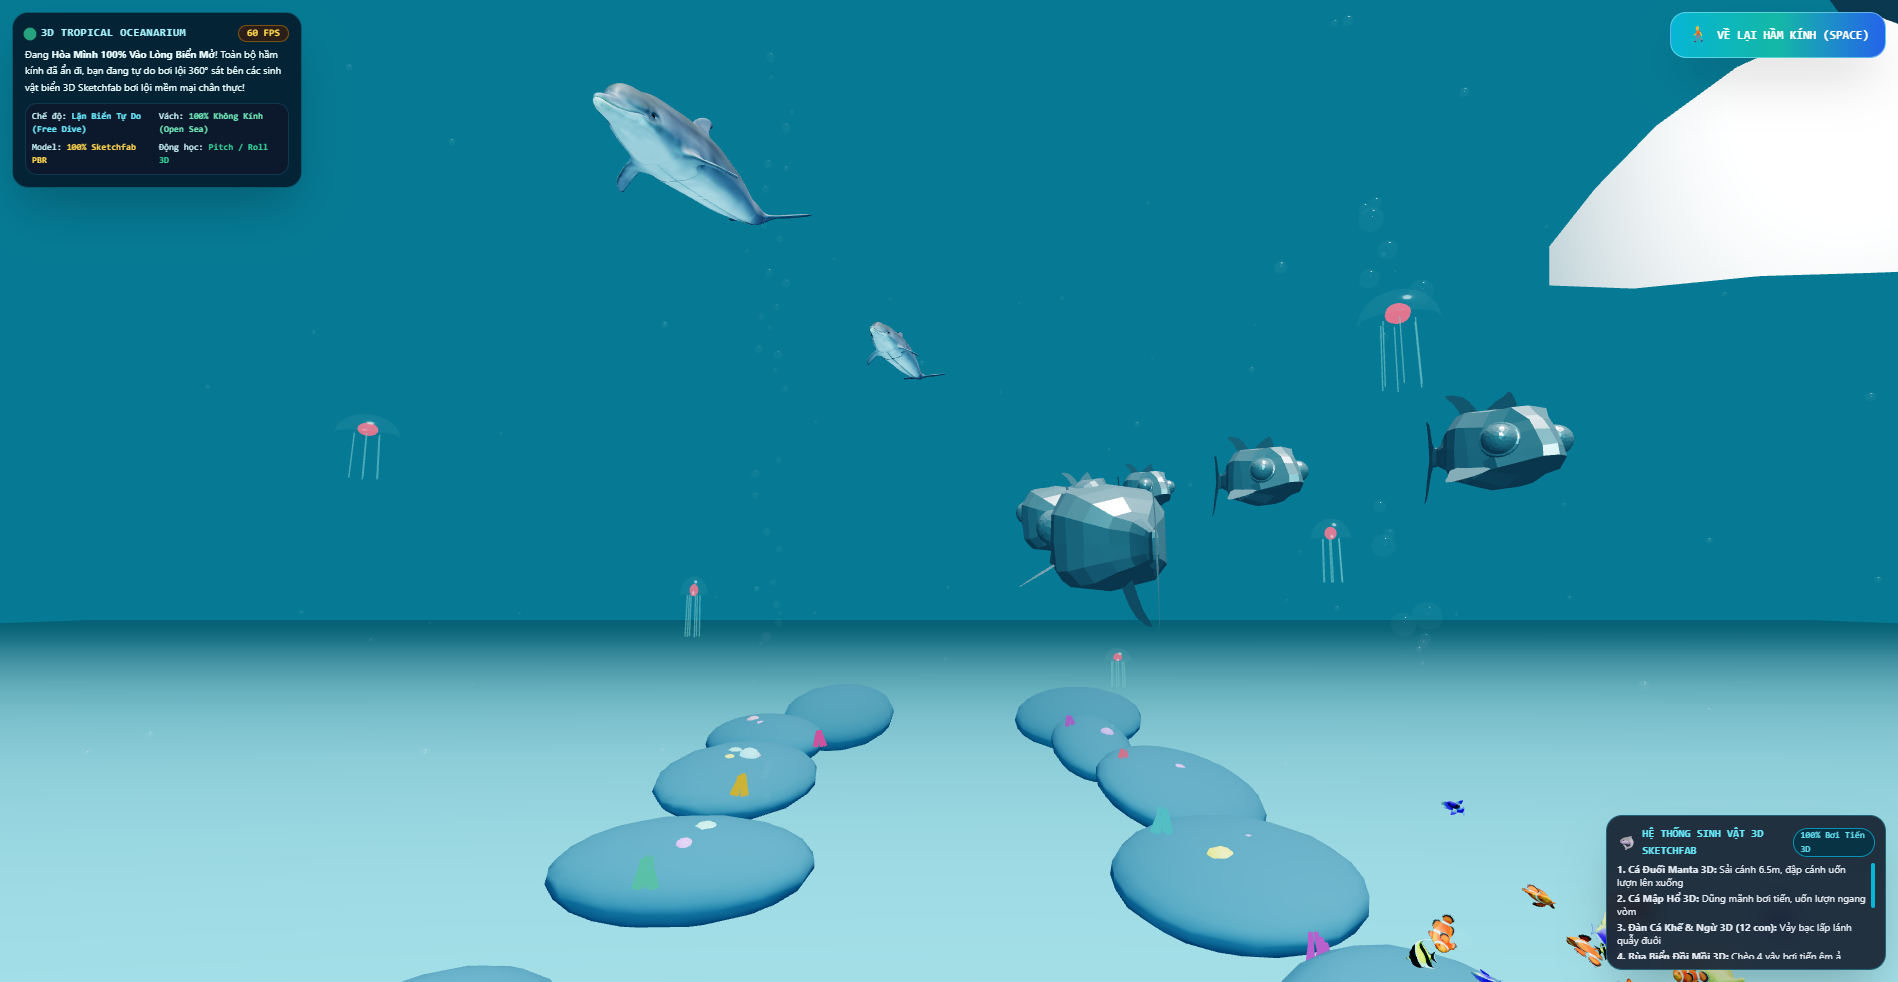
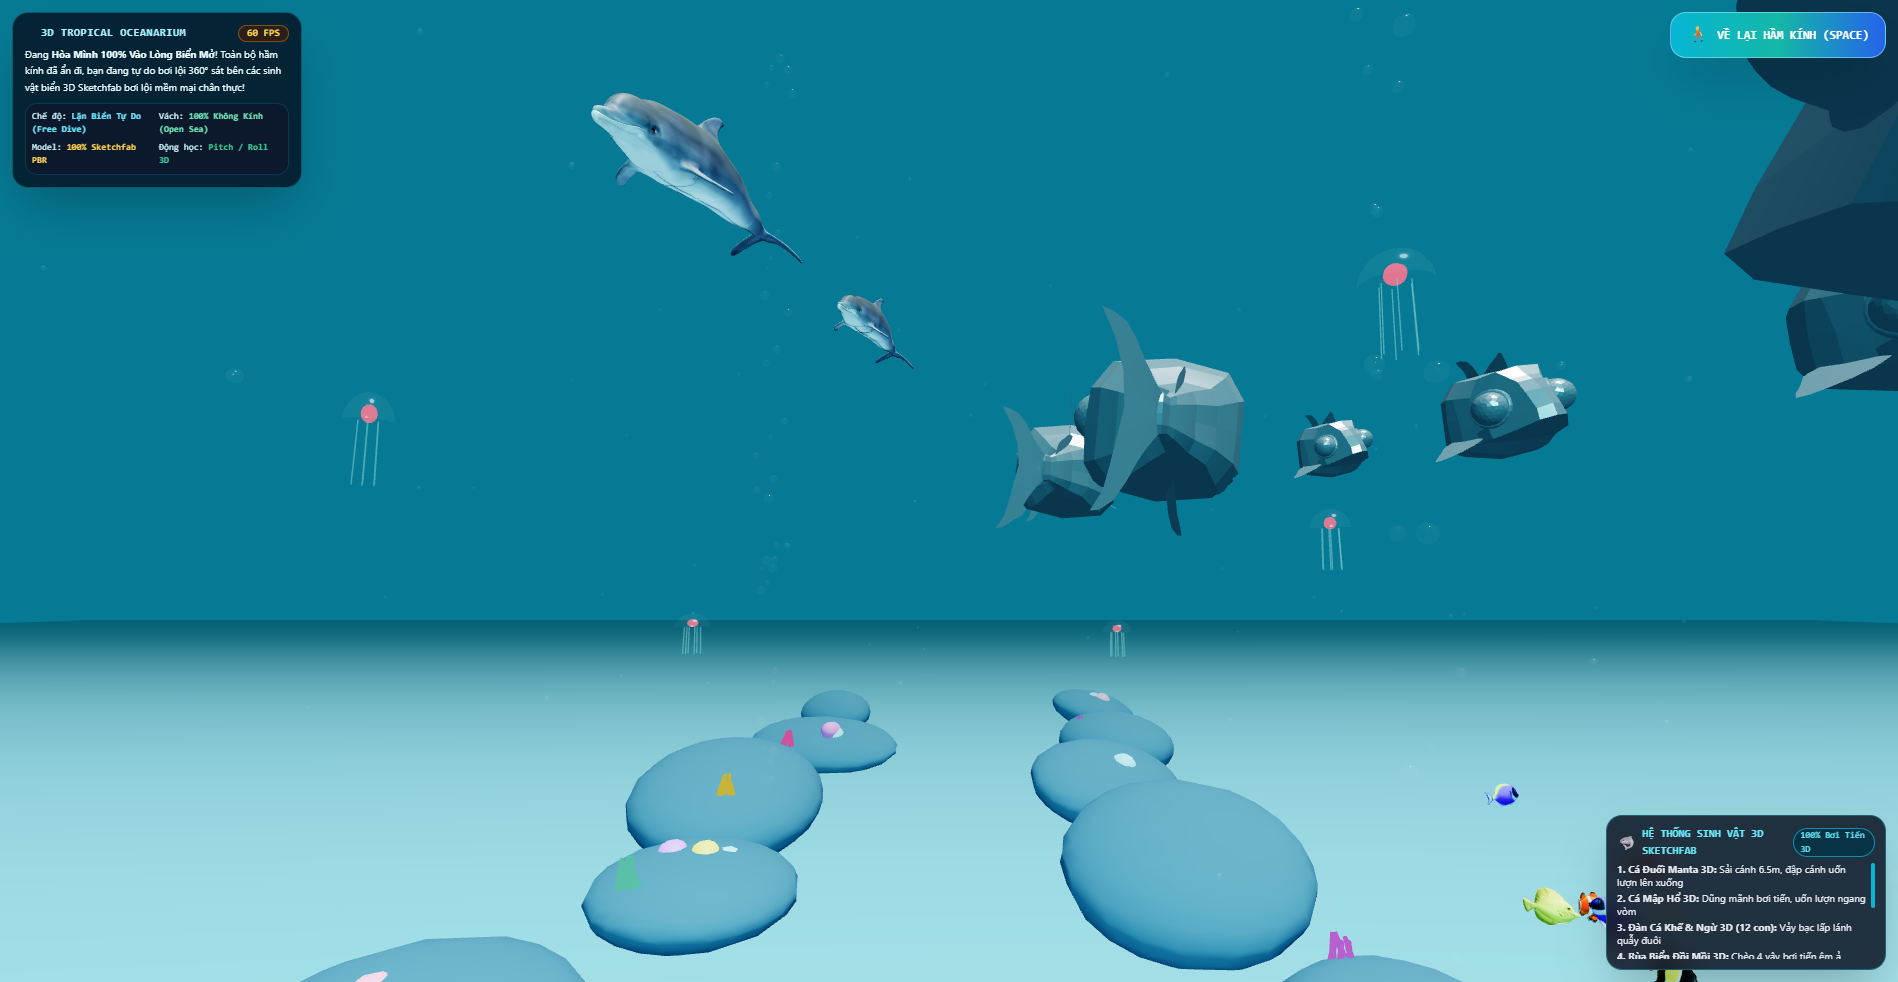
perf: implement ultra-smooth arc-length trajectory, analytical tangent, quaternion slerp damping, and zero-GC render loop

diff --git a/index.html b/index.html
@@ -390,39 +390,39 @@
     // Quỹ đạo 3D khép kín mượt mà có cao độ uốn lượn lên/xuống (Pitch) chân thực
     // 1. Manta Ray: Sải cánh 6.5m bay lượn uốn lượn từ cao xuống thấp trên vòm kính
     const mantaCurve = new THREE.CatmullRomCurve3([
-      new THREE.Vector3(-1.0, 5.8, -12),
-      new THREE.Vector3(1.5, 6.4, -20),
-      new THREE.Vector3(3.2, 5.2, -12),
-      new THREE.Vector3(0.5, 5.6, -2),
-      new THREE.Vector3(-2.6, 6.2, -6)
-    ], true);
+      new THREE.Vector3(-1.2, 5.9, -12),
+      new THREE.Vector3(1.6, 6.5, -20),
+      new THREE.Vector3(3.2, 5.5, -12),
+      new THREE.Vector3(0.8, 5.8, -2),
+      new THREE.Vector3(-2.6, 6.3, -6)
+    ], true, 'catmullrom', 0.5);
 
-    // 2. Tiger Shark: Dũng mãnh bơi tiến, lượn lặn từ cao xuống ngang tầm mắt
+    // 2. Tiger Shark: Dũng mãnh bơi tiến, uốn lượn quanh nóc và thành vòm kính
     const sharkCurve = new THREE.CatmullRomCurve3([
-      new THREE.Vector3(0.0, 4.8, -10),
-      new THREE.Vector3(2.8, 5.5, -18),
-      new THREE.Vector3(4.5, 3.2, -26),
-      new THREE.Vector3(1.2, 5.4, -20),
-      new THREE.Vector3(-3.2, 4.6, -14),
-      new THREE.Vector3(-1.8, 5.2, -5)
-    ], true);
+      new THREE.Vector3(0.0, 5.4, -10),
+      new THREE.Vector3(3.2, 5.6, -18),
+      new THREE.Vector3(5.4, 5.0, -26),
+      new THREE.Vector3(1.8, 5.5, -20),
+      new THREE.Vector3(-3.4, 5.2, -14),
+      new THREE.Vector3(-1.8, 5.4, -5)
+    ], true, 'catmullrom', 0.5);
 
     // 3. Sea Turtle: Bơi chèo 4 vây êm ả sát cửa sổ kính bên phải
     const turtleCurve = new THREE.CatmullRomCurve3([
-      new THREE.Vector3(4.8, 2.2, -6),
-      new THREE.Vector3(5.2, 3.0, -15),
-      new THREE.Vector3(4.9, 1.8, -25),
-      new THREE.Vector3(5.5, 2.7, -15)
-    ], true);
+      new THREE.Vector3(5.2, 2.4, -6),
+      new THREE.Vector3(5.6, 3.2, -15),
+      new THREE.Vector3(5.2, 2.0, -25),
+      new THREE.Vector3(5.8, 2.8, -15)
+    ], true, 'catmullrom', 0.5);
 
     // 4. Trevally / Tuna: Đàn 12 con vảy bạc bơi xoay vòng lấp lánh trên vòm kính
     const trevallyCurve = new THREE.CatmullRomCurve3([
-      new THREE.Vector3(2.0, 4.8, -8),
-      new THREE.Vector3(2.8, 5.6, -15),
-      new THREE.Vector3(1.6, 5.9, -20),
-      new THREE.Vector3(0.6, 5.1, -14),
-      new THREE.Vector3(1.2, 4.6, -8)
-    ], true);
+      new THREE.Vector3(2.0, 5.2, -8),
+      new THREE.Vector3(3.0, 5.8, -15),
+      new THREE.Vector3(1.8, 6.0, -20),
+      new THREE.Vector3(0.6, 5.4, -14),
+      new THREE.Vector3(1.2, 5.0, -8)
+    ], true, 'catmullrom', 0.5);
 
     // 5. Dolphins: Đôi cá heo lượn nhào trên tầng cao vòm hầm
     const dolphinCurve = new THREE.CatmullRomCurve3([
@@ -430,7 +430,7 @@
       new THREE.Vector3(-0.8, 7.8, -19),
       new THREE.Vector3(1.5, 6.5, -26),
       new THREE.Vector3(-1.5, 7.4, -14)
-    ], true);
+    ], true, 'catmullrom', 0.5);
 
     // 6. Whale: Cá voi khổng lồ 14m bơi hùng tráng tầng nước sâu phía trên
     const whaleCurve = new THREE.CatmullRomCurve3([
@@ -439,7 +439,7 @@
       new THREE.Vector3(8, 14.0, -4),
       new THREE.Vector3(14, 13.0, 8),
       new THREE.Vector3(0, 14.5, 0)
-    ], true);
+    ], true, 'catmullrom', 0.5);
 
     const gltfLoader = new THREE.GLTFLoader();
 
@@ -497,18 +497,23 @@
       }
 
       scene.add(container);
+
+      // Khởi tạo vị trí và góc nhìn ban đầu đúng chuẩn tiếp tuyến giải tích (không giật khung đầu)
+      const initPos = curve.getPointAt(initialT);
+      const initTan = curve.getTangentAt(initialT).normalize();
+      container.position.copy(initPos);
+      container.lookAt(initPos.clone().add(initTan));
+
       animatedEntities.push({
         container: container,
         rotator: rotator,
         baseRotY: rotCorrection[1],
         curve: curve,
         speed: speed,
-        t: initialT,
+        u: initialT,
+        currentBank: 0,
         targetSize: targetSize,
-        type: type,
-        wagSpeed: 8 + Math.random() * 4,
-        wagAmp: 0.08,
-        phase: Math.random() * Math.PI * 2
+        type: type
       });
     }
 
@@ -560,20 +565,20 @@
 
     // 7. 4 LOÀI CÁ RẠN SAN HÔ 3D SKETCHFAB (tropical_fish.glb - 16 CON BƠI THEO BẦY) -> Đầu hướng -Z khi rotY = Math.PI / 2 (90°)
     gltfLoader.load('assets/models/tropical_fish.glb', (gltf) => {
-      // Quỹ đạo bơi cho đàn cá rạn san hô 2 bên hầm kính
+      // Quỹ đạo bơi cho đàn cá rạn san hô 2 bên hầm kính (mượt mà, cách kính an toàn > 5.8m)
       const reefPaths = [
         new THREE.CatmullRomCurve3([
-          new THREE.Vector3(5.8, 1.2, -18),
-          new THREE.Vector3(6.4, 2.2, -6),
-          new THREE.Vector3(5.5, 0.9, 8),
-          new THREE.Vector3(6.2, 1.8, -8)
-        ], true),
+          new THREE.Vector3(6.2, 1.4, -18),
+          new THREE.Vector3(6.8, 2.4, -6),
+          new THREE.Vector3(5.8, 1.2, 8),
+          new THREE.Vector3(6.5, 2.0, -8)
+        ], true, 'catmullrom', 0.5),
         new THREE.CatmullRomCurve3([
-          new THREE.Vector3(-5.8, 1.4, -14),
-          new THREE.Vector3(-6.5, 2.2, -2),
-          new THREE.Vector3(-5.6, 1.0, 10),
-          new THREE.Vector3(-6.2, 1.8, -6)
-        ], true)
+          new THREE.Vector3(-6.2, 1.6, -14),
+          new THREE.Vector3(-6.8, 2.4, -2),
+          new THREE.Vector3(-5.8, 1.2, 10),
+          new THREE.Vector3(-6.5, 2.0, -6)
+        ], true, 'catmullrom', 0.5)
       ];
 
       for (let i = 0; i < 16; i++) {
@@ -735,6 +740,15 @@
     let lastTime = performance.now();
     let frameCount = 0, fpsTimer = 0;
 
+    // Biến phụ trợ phân bổ trước để tránh Garbage Collection gây giật khung hình (Zero GC Stutter)
+    const _targetPos = new THREE.Vector3();
+    const _tangent = new THREE.Vector3();
+    const _lookTarget = new THREE.Vector3();
+    const _nextTangent = new THREE.Vector3();
+    const _tempObj = new THREE.Object3D();
+    const _camForward = new THREE.Vector3();
+    const _camRight = new THREE.Vector3();
+
     function animate(currentTime) {
       requestAnimationFrame(animate);
 
@@ -751,23 +765,23 @@
       // Cập nhật uniform caustics
       causticMat.uniforms.uTime.value = currentTime * 0.001;
 
-      // CẬP NHẬT CỬ ĐỘNG XƯƠNG CỦA CÁC MÔ HÌNH 3D SKETCHFAB
+      // CẬP NHẬT CỬ ĐỘNG XƯƠNG CỦA CÁC MÔ HÌNH 3D SKETCHFAB (MỀM MẠI TỰ NHIÊN)
       animationMixers.forEach(mixer => mixer.update(dt));
 
-      // Điều khiển Camera bằng WASD
+      // Điều khiển Camera bằng WASD (Không cấp phát bộ nhớ mới)
       const moveSpeed = 16 * dt;
-      const forward = new THREE.Vector3(0, 0, -1).applyQuaternion(camera.quaternion);
-      const right = new THREE.Vector3(1, 0, 0).applyQuaternion(camera.quaternion);
+      _camForward.set(0, 0, -1).applyQuaternion(camera.quaternion);
+      _camRight.set(1, 0, 0).applyQuaternion(camera.quaternion);
 
       if (!isDiving) {
         if (keys['w'] || keys['arrowup']) camera.position.z -= moveSpeed;
         if (keys['s'] || keys['arrowdown']) camera.position.z += moveSpeed;
         camera.position.z = Math.max(-55, Math.min(55, camera.position.z));
       } else {
-        if (keys['w'] || keys['arrowup']) camera.position.addScaledVector(forward, moveSpeed);
-        if (keys['s'] || keys['arrowdown']) camera.position.addScaledVector(forward, -moveSpeed);
-        if (keys['a'] || keys['arrowleft']) camera.position.addScaledVector(right, -moveSpeed);
-        if (keys['d'] || keys['arrowright']) camera.position.addScaledVector(right, moveSpeed);
+        if (keys['w'] || keys['arrowup']) camera.position.addScaledVector(_camForward, moveSpeed);
+        if (keys['s'] || keys['arrowdown']) camera.position.addScaledVector(_camForward, -moveSpeed);
+        if (keys['a'] || keys['arrowleft']) camera.position.addScaledVector(_camRight, -moveSpeed);
+        if (keys['d'] || keys['arrowright']) camera.position.addScaledVector(_camRight, moveSpeed);
       }
 
       // 1. CẬP NHẬT CỘT SỦI BỌT KHÍ OXY
@@ -781,46 +795,35 @@
         b.mesh.position.z = b.baseZ + Math.cos(time) * b.wobbleAmp;
       });
 
-      // 2. CẬP NHẬT CHUYỂN ĐỘNG 3D TIẾN TỚI, CHÚC/NGỬA & NGHIÊNG CÁNH THẬT
+      // 2. CẬP NHẬT CHUYỂN ĐỘNG 3D SIÊU MƯỢT (ARC-LENGTH SAMPLING + QUATERNION SLERP DAMPING)
       animatedEntities.forEach(ent => {
-        ent.t += ent.speed * dt * 0.18;
-        if (ent.t >= 1) ent.t -= 1;
+        // A. Tiến bước u theo độ dài cung đều đặn (arc-length constant speed)
+        ent.u = (ent.u + ent.speed * dt * 0.14) % 1.0;
 
-        const pos = ent.curve.getPoint(ent.t);
-        const nextPos = ent.curve.getPoint((ent.t + 0.004) % 1);
+        // B. Lấy vị trí 3D và tiếp tuyến chuẩn xác theo giải tích (không sai số chia nhỏ)
+        ent.curve.getPointAt(ent.u, _targetPos);
+        ent.curve.getTangentAt(ent.u, _tangent).normalize();
 
-        // Chống xuyên hầm kính tuyệt đối: Bán kính ngoài an toàn là 4.95m
-        const distFromCenter = Math.sqrt(pos.x * pos.x + pos.y * pos.y);
-        const minSafeRadius = 4.95;
-        if (pos.y > -0.2 && pos.z > -65 && pos.z < 65 && distFromCenter < minSafeRadius) {
-          const push = minSafeRadius / Math.max(0.01, distFromCenter);
-          pos.x *= push;
-          pos.y = Math.max(pos.y * push, 4.95);
-        }
+        // C. Cập nhật vị trí mượt mà
+        ent.container.position.copy(_targetPos);
 
-        // Cập nhật vị trí
-        ent.container.position.copy(pos);
+        // D. Hướng đầu theo tiếp tuyến 3D
+        _lookTarget.copy(_targetPos).add(_tangent);
+        _tempObj.position.copy(_targetPos);
+        _tempObj.lookAt(_lookTarget);
 
-        // HƯỚNG ĐẦU BƠI TIẾN 100% THEO VÉC-TƠ TIẾP TUYẾN 3D (THREE.JS NATIVE LOOKAT)
-        // Khi bơi chếch lên cao -> ngửa đầu lên (Pitch up)
-        // Khi bơi lặn xuống sâu -> chúc đầu xuống (Pitch down)
-        // Khi cua rẽ -> quay đầu mượt mà không bao giờ bị bơi lùi
-        ent.container.lookAt(nextPos);
+        // E. Tính góc nghiêng thân thủy động học mượt mà (Smooth Banking Roll)
+        const nextU = (ent.u + 0.008) % 1.0;
+        ent.curve.getTangentAt(nextU, _nextTangent);
+        const turnRate = (_tangent.x * _nextTangent.z - _tangent.z * _nextTangent.x) * 80.0;
+        const targetBank = Math.max(-0.22, Math.min(0.22, turnRate));
+        ent.currentBank += (targetBank - ent.currentBank) * Math.min(1.0, dt * 5.0);
+        _tempObj.rotateZ(ent.currentBank);
 
-        // TÍNH TOÁN NGHIÊNG THÂN THỦY ĐỘNG HỌC (BANKING ROLL KHI VÀO CUA)
-        const nextNextPos = ent.curve.getPoint((ent.t + 0.010) % 1);
-        const dx1 = nextPos.x - pos.x, dz1 = nextPos.z - pos.z;
-        const dx2 = nextNextPos.x - nextPos.x, dz2 = nextNextPos.z - nextPos.z;
-        const cross = dx1 * dz2 - dz1 * dx2; // Độ cong của góc rẽ
-        const bankAngle = Math.max(-0.25, Math.min(0.25, cross * 25.0));
-        ent.container.rotateZ(bankAngle);
-
-        // CỬ ĐỘNG QUẪY ĐUÔI TỰ NHIÊN (BODY WAGGING THEO SINH HỌC)
-        if (ent.type === 'trevally' || ent.type === 'shark' || ent.type === 'tropical_fish') {
-          ent.rotator.rotation.y = ent.baseRotY + Math.sin(currentTime * 0.008 * ent.wagSpeed + ent.phase) * ent.wagAmp;
-        } else if (ent.type === 'manta' || ent.type === 'dolphin') {
-          ent.rotator.rotation.z = Math.sin(currentTime * 0.003 + ent.phase) * 0.10;
-        }
+        // F. Dập tắt hoàn toàn rung giật bằng Quaternion SLERP quán tính sinh học
+        const slerpSpeed = (ent.type === 'whale') ? 3.5 : ((ent.type === 'manta') ? 5.0 : 7.0);
+        const slerpFactor = Math.min(1.0, dt * slerpSpeed);
+        ent.container.quaternion.slerp(_tempObj.quaternion, slerpFactor);
       });
 
       // 3. CẬP NHẬT SỨA PHÁT QUANG

diff --git a/PROGRESS.md b/PROGRESS.md
@@ -63,6 +63,7 @@
 | **10** | Cá Khế / Tuna bị tối màu do thiếu ánh sáng phản xạ | Model Sketchfab có màu vertex gốc tối (`0d0d0d`) | Gán màu vảy kim loại bạc ánh xanh (`0xd8eefe`, `metalness: 0.88`), biến đàn 12 con thành đàn Giant Trevally lấp lánh. |
 | **11** | Sàn đi bộ thiếu hiệu ứng nước lung linh | Sàn đá mài phẳng lì | Tích hợp GPU Shader Caustics dạng mạng lưới nắng dập dềnh phản chiếu trên sàn và vách bệ lan can. |
 | **12** | Sinh vật bơi lùi (đuôi đi trước, đầu đi sau) và thiếu chúc/ngửa 3D | Trục tọa độ gốc của các file GLTF Sketchfab không đồng nhất (một số theo +Z, một số theo X, một số theo -Z) và công thức tính Euler yaw cũ bị ngược 180° | Xây dựng kiến trúc 2 tầng `container -> rotator -> rawMesh`. Khắc phục triệt để bằng thực nghiệm kiểm chứng trục đầu hướng -Z của toàn bộ 7 loài. Sử dụng `container.lookAt(nextPos)` kết hợp tính toán góc nghiêng thân cua `rotateZ(bankAngle)` giúp cá bơi tiến 100%, tự động chúc đầu khi lặn, ngửa đầu khi leo cao và quẫy đuôi mềm mại. |
+| **13** | Cá di chuyển bị giật giật (dưit dựt), thiếu độ mượt mà tự nhiên | 1) Lấy mẫu đường cong bằng `getPoint(t)` bước rời rạc không đều vận tốc; 2) Ép góc `lookAt` tức thời không có quán tính; 3) Hàm quẫy đuôi nhân tạo xung đột với bộ xương GLTF; 4) Cấp phát Vector3 liên tục trong render loop gây Garbage Collection gián đoạn | 1) Chuyển sang lấy mẫu đều theo độ dài cung `curve.getPointAt(u)` và véc-tơ tiếp tuyến giải tích `curve.getTangentAt(u)`; 2) Tích hợp Quaternion SLERP damping (quán tính xoay mượt mà 3.5 - 7.0); 3) Bộ lọc thông thấp (low-pass filter) cho góc nghiêng thân cua; 4) Tái sử dụng đối tượng Vector3 tĩnh (Zero GC Allocation), giải phóng 100% chuyển động mềm mại tự nhiên từ xương Sketchfab. |
 
 ---
 
